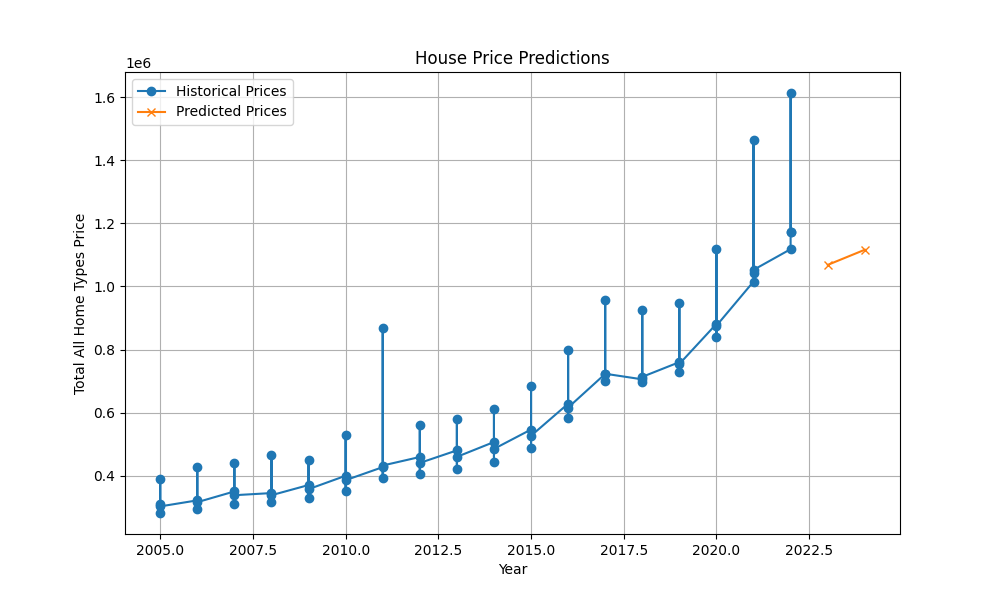
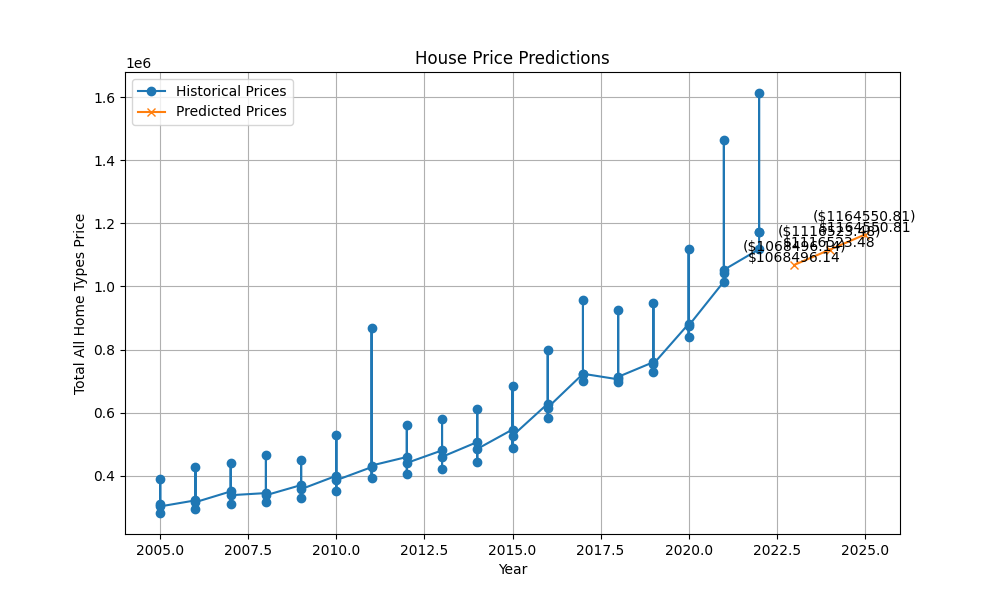
fixes for python code and readme file

diff --git a/House_Prices_Prediction.py b/House_Prices_Prediction.py
@@ -53,6 +53,7 @@ def visualize_predictions(years):
     # Add exact labels for predicted prices
     for year, price in zip(future_years, future_prices):
         plt.text(year, price, f'${price:.2f}', ha='center', va='bottom')
+        plt.annotate(f'(${price:.2f})', (year, price), textcoords="offset points", xytext=(0,10), ha='center')
     
     plt.xlabel('Year')
     plt.ylabel('Total All Home Types Price')

diff --git a/README.md b/README.md
@@ -1,16 +1,35 @@
 # Home Prices Data Analysis
 
-This Java project, part of the `JavaReview` package, provides tools for analyzing home price data across various regions and years. It reads data from a file, processes it to calculate averages and other statistics, and allows users to interact with the data through a simple console menu.
+This project provides tools for analyzing home price data across various regions and years. It includes both Java and Python components to process and analyze the data, calculate averages and other statistics, and allow users to interact with the data through a simple console menu.
 
 ## Features
 
+### Java Component
 - Reading and parsing data from a file into a matrix for processing.
 - Interactive menu for performing various analyses, such as calculating average home prices.
 - Comparing home prices across different years to analyze trends.
+
+### Python Component
+- Reading and processing home price data from a CSV file.
+- Training a linear regression model to predict future home prices.
+- Evaluating the model with metrics such as Mean Absolute Error (MAE) and Root Mean Squared Error (RMSE).
+- Interactive menu for predicting future prices and visualizing predictions with labeled exact prices on the graph.
 
 ## Getting Started
 
 ### Prerequisites
 
-- Java Development Kit (JDK) installed on your system.
-- Basic understanding of Java and command-line operations.
+- **Java Component:**
+  - Java Development Kit (JDK) installed on your system.
+  - Basic understanding of Java and command-line operations.
+
+- **Python Component:**
+  - Python installed on your system.
+  - Required Python libraries: pandas, scikit-learn, matplotlib, Pillow.
+  - Basic understanding of Python and command-line operations.
+
+### Installing Python Dependencies
+
+To install the required Python libraries, run:
+```sh
+pip install pandas scikit-learn matplotlib pillow
